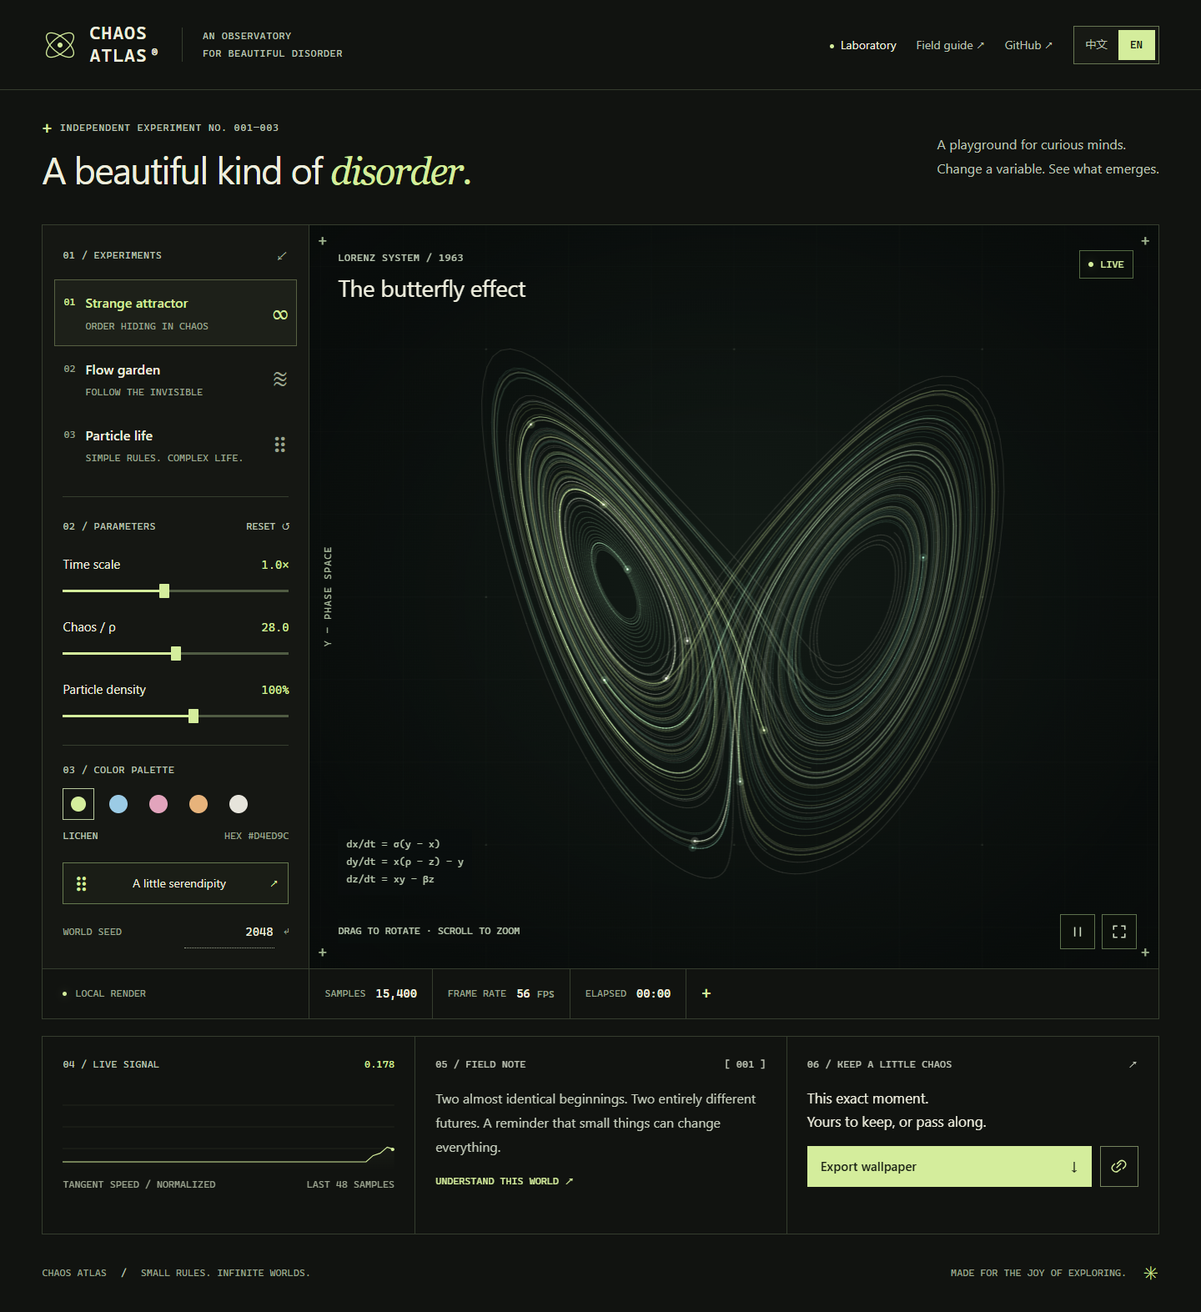
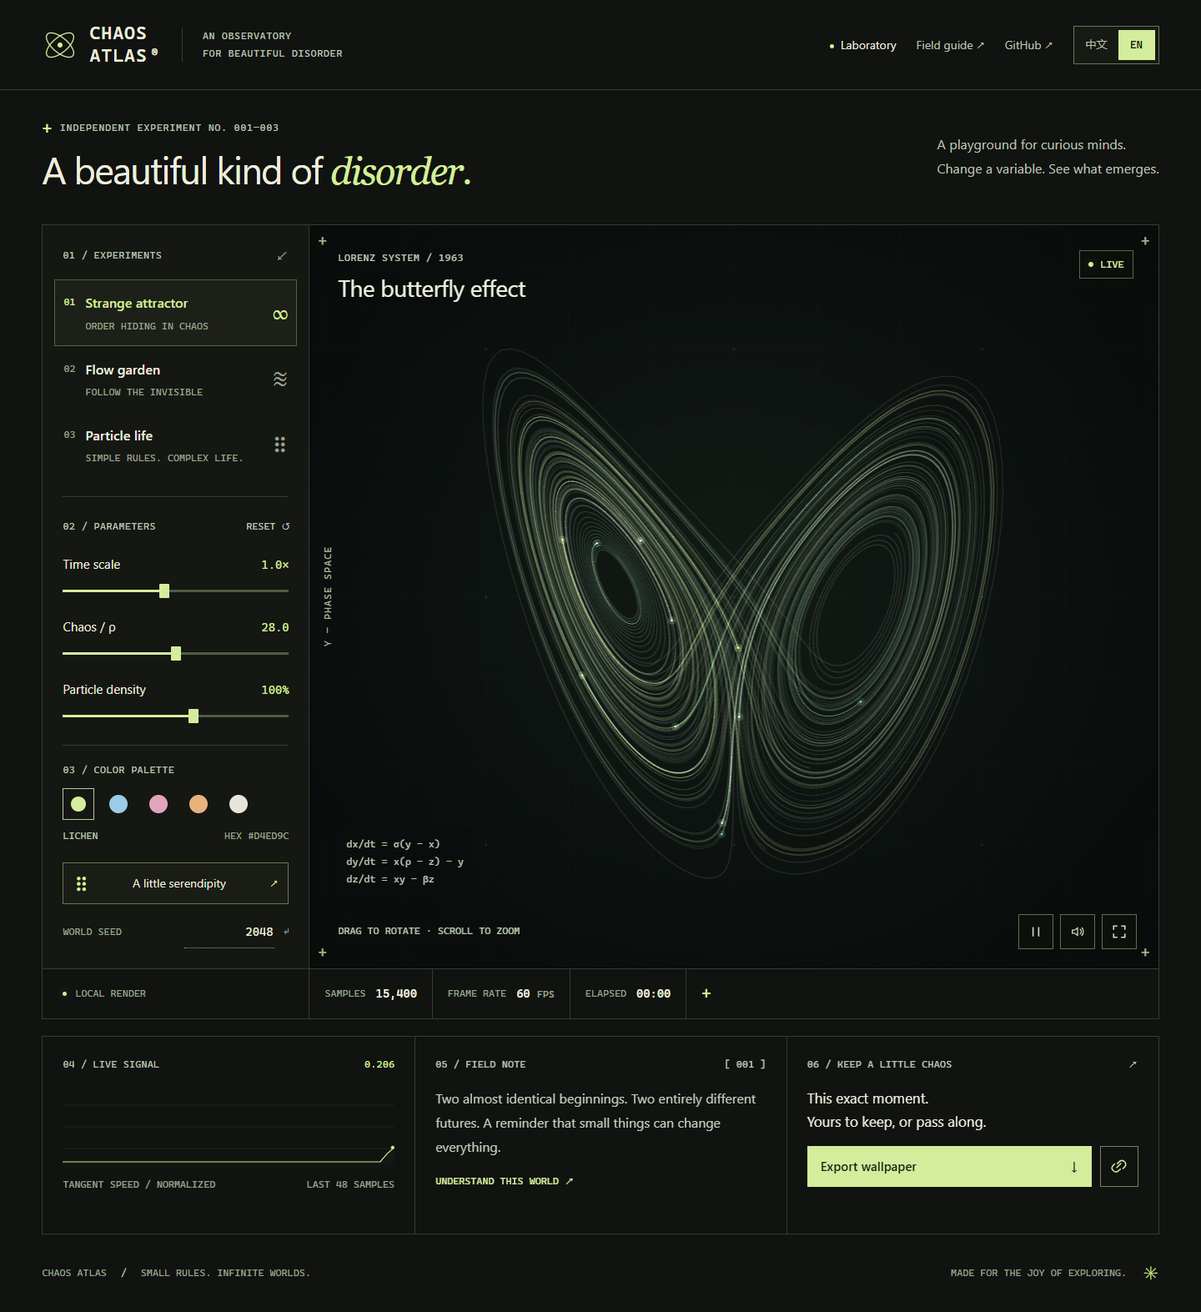
Add opt-in generative observatory melody

Changed region(s): [[0.4062, 0.3115, 0.5312, 0.5919], [0.7188, 0.3738, 0.8438, 0.5919]]

diff --git a/src/app.js b/src/app.js
@@ -1,4 +1,5 @@
 import { Simulation } from './simulation.js';
+import { ObservatorySound } from './sound.js';
 
 const $ = (selector) => document.querySelector(selector);
 const $$ = (selector) => [...document.querySelectorAll(selector)];
@@ -21,6 +22,9 @@ const translations = {
     simulationLabel: 'Interactive particle simulation', signalLabel: 'Rolling trace of average particle motion',
     homeLabel: 'Chaos Atlas home', githubLabel: 'Star Chaos Atlas on GitHub', closeDialog: 'Close dialog',
     axisY: 'Y — PHASE SPACE', axisX: 'X — INITIAL CONDITIONS', frameRate: 'FRAME RATE', lastSamples: 'LAST 48 SAMPLES',
+    soundTitle: 'OBSERVATORY SOUND', soundSubtitle: 'A small melody shaped by this world', volume: 'VOLUME',
+    volumeLabel: 'Sound volume', mute: 'MUTE', unmute: 'SOUND ON', soundEnable: 'Enable observatory sound',
+    soundDisable: 'Mute observatory sound', soundResume: 'Unmute observatory sound', soundUnavailable: 'Sound is not available in this browser.', soundEnabled: 'Sound enabled',
     navLab: 'Laboratory', navGuide: 'Field guide ↗', system: 'ALL SYSTEMS CURIOUS',
     introEyebrow: 'INDEPENDENT EXPERIMENT NO. 001—003', headline: 'A beautiful kind of <em>disorder.</em>',
     intro: 'A playground for curious minds.<br/>Change a variable. See what emerges.',
@@ -56,6 +60,9 @@ const translations = {
     simulationLabel: '可交互的粒子模拟', signalLabel: '平均粒子运动强度的实时曲线',
     homeLabel: '混沌图谱首页', githubLabel: '在 GitHub 收藏混沌图谱', closeDialog: '关闭弹窗',
     axisY: 'Y — 相空间', axisX: 'X — 初始条件', frameRate: '帧率', lastSamples: '最近 48 次采样',
+    soundTitle: '实验室声音', soundSubtitle: '由这个世界生成的一小段旋律', volume: '音量',
+    volumeLabel: '声音音量', mute: '静音', unmute: '开启声音', soundEnable: '开启实验室声音',
+    soundDisable: '关闭实验室声音', soundResume: '取消静音', soundUnavailable: '当前浏览器不支持声音。', soundEnabled: '声音已开启',
     navLab: '实验室', navGuide: '观测手册 ↗', system: '好奇心，运行中',
     introEyebrow: '独立实验 NO. 001—003', headline: '一种美丽的 <em>无序。</em>',
     intro: '给好奇心一片游乐场。<br/>改变一个变量，看看会发生什么。',
@@ -173,8 +180,20 @@ function updateStats(stats) {
   $('#elapsed-stat').textContent = `${String(Math.floor(seconds / 60)).padStart(2, '0')}:${String(seconds % 60).padStart(2, '0')}`;
   $('#activity-value').textContent = stats.activity.toFixed(3);
   lastTrace = stats.trace; drawSignal(lastTrace);
+  if (observatorySound) observatorySound.setStats(stats);
 }
+let observatorySound;
 const simulation = new Simulation($('#simulation'), { onStats: updateStats });
+observatorySound = new ObservatorySound({
+  onAvailability: (available) => {
+    if (!available) {
+      $('#sound-button').disabled = true;
+      $('#sound-button').title = t('soundUnavailable');
+      $('#sound-dock').hidden = true;
+      toast(t('soundUnavailable'));
+    }
+  },
+});
 
 function updateRange(id, value) {
   const input = $(`#${id}`); input.value = value;
@@ -199,6 +218,7 @@ function updateScene() {
   $('#signal-label').textContent = state.scene === 'lorenz' ? (state.language === 'zh' ? '轨迹切向速度 / 归一化' : 'TANGENT SPEED / NORMALIZED') : t('motionSignal');
   $('#simulation').setAttribute('aria-label', `${localized(info.title)}. ${localized(info.hint)}`);
   simulation.setScene(state.scene);
+  observatorySound.setScene(state.scene);
   updateParameters();
 }
 function updatePalette() {
@@ -249,6 +269,11 @@ function applyLanguage() {
   $$('.close-dialog').forEach((button) => { button.setAttribute('aria-label', t('closeDialog')); button.title = t('closeDialog'); });
   $('#immersive-button').setAttribute('aria-label', t(document.body.classList.contains('is-immersive') ? 'exitLabel' : 'immersiveLabel'));
   $('#immersive-button').title = `${t('immersiveLabel')} (F)`;
+  $('#sound-button').setAttribute('aria-label', t(observatorySound.enabled ? (observatorySound.muted ? 'soundResume' : 'soundDisable') : 'soundEnable'));
+  $('#sound-button').title = t(observatorySound.enabled ? (observatorySound.muted ? 'soundResume' : 'soundDisable') : 'soundEnable');
+  $('#sound-button').classList.toggle('sound-active', observatorySound.enabled && !observatorySound.muted);
+  $('#volume').setAttribute('aria-label', t('volumeLabel'));
+  $('#mute-button').textContent = observatorySound.enabled && !observatorySound.muted ? t('mute') : t('unmute');
   $('#share-button').setAttribute('aria-label', state.language === 'zh' ? '分享这个世界' : 'Share this world');
   $('#share-button').title = state.language === 'zh' ? '分享这个世界' : 'Share this world';
   const sizes = state.language === 'zh' ? ['桌面 — 2560 × 1440', '4K — 3840 × 2160', '手机 — 1440 × 2560', '方形 — 2048 × 2048'] : ['Desktop — 2560 × 1440', '4K — 3840 × 2160', 'Phone — 1440 × 2560', 'Square — 2048 × 2048'];
@@ -293,6 +318,19 @@ $('#exit-immersive').addEventListener('click', () => setImmersive(false));
 $('#guide-button').addEventListener('click', () => openDialog('#guide-dialog'));
 $('#read-note').addEventListener('click', () => openDialog('#guide-dialog'));
 $('#export-button').addEventListener('click', () => openDialog('#export-dialog'));
+$('#sound-button').addEventListener('click', async () => {
+  const enabled = await observatorySound.toggleMute();
+  if (!observatorySound.enabled) return;
+  $('#sound-dock').hidden = false;
+  $('#sound-button').classList.toggle('sound-active', enabled && !observatorySound.muted);
+  applyLanguage();
+  if (enabled && !observatorySound.muted) toast(t('soundEnabled'));
+});
+$('#mute-button').addEventListener('click', async () => {
+  await observatorySound.toggleMute();
+  applyLanguage();
+});
+$('#volume').addEventListener('input', (event) => observatorySound.setVolume(Number(event.target.value) / 100));
 $$('[data-language]').forEach((button) => button.addEventListener('click', () => {
   if (state.language === button.dataset.language) return;
   state.language = button.dataset.language; applyLanguage(); syncURL();
@@ -333,7 +371,11 @@ document.addEventListener('keydown', (event) => {
   else if (event.key === 'Escape') setImmersive(false);
 });
 window.addEventListener('resize', () => drawSignal(lastTrace));
-window.addEventListener('pagehide', (event) => { if (!event.persisted) simulation.destroy(); });
+document.addEventListener('visibilitychange', () => {
+  if (document.hidden) observatorySound.suspend();
+  else observatorySound.resume();
+});
+window.addEventListener('pagehide', (event) => { if (!event.persisted) { simulation.destroy(); observatorySound.destroy(); } });
 $('#seed').value = state.seed;
 applyLanguage(); simulation.setSeed(state.seed);
 if (location.search) syncURL();

diff --git a/src/sound.js b/src/sound.js
@@ -1,0 +1,177 @@
+const TAU = Math.PI * 2;
+
+const ROOTS = { lorenz: 146.83, flow: 196, life: 174.61 };
+const SCALES = {
+  lorenz: [0, 3, 7, 10, 14, 17, 21],
+  flow: [0, 2, 5, 7, 9, 12, 14],
+  life: [0, 3, 5, 7, 10, 12, 15],
+};
+
+const midiToFrequency = (root, semitones) => root * 2 ** (semitones / 12);
+
+/**
+ * Small, user-started Web Audio instrument for the observatory.
+ * It deliberately has no audio file or network dependency: notes are short,
+ * soft oscillators and a quiet drone, shaped by the live simulation activity.
+ */
+export class ObservatorySound {
+  constructor({ onAvailability } = {}) {
+    this.onAvailability = typeof onAvailability === 'function' ? onAvailability : () => {};
+    this.context = null;
+    this.master = null;
+    this.filter = null;
+    this.compressor = null;
+    this.timer = null;
+    this.drone = null;
+    this.scene = 'lorenz';
+    this.activity = 0.2;
+    this.elapsed = 0;
+    this.volume = 0.38;
+    this.enabled = false;
+    this.muted = false;
+    this.step = 0;
+    this._available = true;
+  }
+
+  get available() {
+    return this._available && Boolean(globalThis.AudioContext || globalThis.webkitAudioContext);
+  }
+
+  async enable() {
+    if (!this.available) {
+      this._available = false;
+      this.onAvailability(false);
+      return false;
+    }
+    try {
+      if (!this.context) this._createGraph();
+      await this.context.resume();
+      this.enabled = true;
+      this._startDrone();
+      this._scheduleNext(0.04);
+      this.onAvailability(true);
+      return true;
+    } catch (error) {
+      console.warn('Observatory sound unavailable:', error);
+      this._available = false;
+      this.onAvailability(false);
+      return false;
+    }
+  }
+
+  _createGraph() {
+    const AudioContextClass = globalThis.AudioContext || globalThis.webkitAudioContext;
+    this.context = new AudioContextClass();
+    this.master = this.context.createGain();
+    this.filter = this.context.createBiquadFilter();
+    this.compressor = this.context.createDynamicsCompressor();
+    this.master.gain.value = this.volume;
+    this.filter.type = 'lowpass';
+    this.filter.frequency.value = 2800;
+    this.filter.Q.value = 0.7;
+    this.compressor.threshold.value = -28;
+    this.compressor.knee.value = 18;
+    this.compressor.ratio.value = 5;
+    this.compressor.attack.value = 0.015;
+    this.compressor.release.value = 0.25;
+    this.master.connect(this.filter).connect(this.compressor).connect(this.context.destination);
+  }
+
+  _startDrone() {
+    if (this.drone || !this.context) return;
+    const now = this.context.currentTime;
+    const oscillator = this.context.createOscillator();
+    const gain = this.context.createGain();
+    oscillator.type = 'sine';
+    oscillator.frequency.value = ROOTS[this.scene] / 2;
+    gain.gain.setValueAtTime(0, now);
+    gain.gain.linearRampToValueAtTime(0.035, now + 1.8);
+    oscillator.connect(gain).connect(this.master);
+    oscillator.start(now);
+    this.drone = { oscillator, gain };
+  }
+
+  _scheduleNext(delay = 0.55) {
+    clearTimeout(this.timer);
+    if (!this.enabled || !this.context) return;
+    this.timer = setTimeout(() => {
+      this._playStep();
+      this._scheduleNext(0.42 + (1 - this.activity) * 0.34);
+    }, Math.max(40, delay * 1000));
+  }
+
+  _playStep() {
+    if (!this.enabled || this.muted || !this.context || this.context.state !== 'running') return;
+    const now = this.context.currentTime + 0.015;
+    const scale = SCALES[this.scene] || SCALES.lorenz;
+    const index = (this.step * 2 + Math.floor(this.elapsed * 3)) % scale.length;
+    const octave = this.scene === 'flow' ? 12 : (this.step % 5 === 0 ? 0 : 12);
+    const frequency = midiToFrequency(ROOTS[this.scene], scale[index] + octave);
+    const duration = 0.2 + this.activity * 0.16;
+    const oscillator = this.context.createOscillator();
+    const gain = this.context.createGain();
+    const voice = this.context.createBiquadFilter();
+    oscillator.type = this.scene === 'life' ? 'triangle' : 'sine';
+    oscillator.frequency.setValueAtTime(frequency, now);
+    oscillator.detune.setValueAtTime((this.activity - 0.5) * 18, now);
+    voice.type = 'lowpass';
+    voice.frequency.setValueAtTime(900 + this.activity * 2800, now);
+    voice.Q.value = 0.45;
+    gain.gain.setValueAtTime(0.0001, now);
+    gain.gain.exponentialRampToValueAtTime(0.055 + this.activity * 0.04, now + 0.025);
+    gain.gain.exponentialRampToValueAtTime(0.0001, now + duration);
+    oscillator.connect(voice).connect(gain).connect(this.master);
+    oscillator.start(now);
+    oscillator.stop(now + duration + 0.03);
+    this.step += 1;
+  }
+
+  setScene(scene) {
+    this.scene = scene;
+    if (this.drone && this.context) {
+      const now = this.context.currentTime;
+      this.drone.oscillator.frequency.setTargetAtTime(ROOTS[scene] / 2, now, 0.4);
+    }
+  }
+
+  setStats({ activity = 0, elapsed = 0 } = {}) {
+    this.activity = Math.max(0.05, Math.min(1, Number(activity) || 0));
+    this.elapsed = Number(elapsed) || 0;
+    if (this.filter && this.context) this.filter.frequency.setTargetAtTime(1800 + this.activity * 2600, this.context.currentTime, 0.15);
+  }
+
+  setVolume(value) {
+    this.volume = Math.max(0, Math.min(1, Number(value) || 0));
+    if (this.master && this.context) this.master.gain.setTargetAtTime(this.muted ? 0 : this.volume, this.context.currentTime, 0.04);
+  }
+
+  setMuted(value) {
+    this.muted = Boolean(value);
+    if (this.master && this.context) this.master.gain.setTargetAtTime(this.muted ? 0 : this.volume, this.context.currentTime, 0.04);
+  }
+
+  async toggleMute() {
+    if (!this.enabled) return this.enable();
+    this.setMuted(!this.muted);
+    return !this.muted;
+  }
+
+  suspend() {
+    if (this.context?.state === 'running') this.context.suspend();
+  }
+
+  resume() {
+    if (this.enabled && this.context?.state === 'suspended') this.context.resume();
+  }
+
+  destroy() {
+    clearTimeout(this.timer);
+    if (this.drone) {
+      try { this.drone.oscillator.stop(); } catch { /* Already stopped. */ }
+      this.drone = null;
+    }
+    if (this.context) this.context.close();
+    this.context = null;
+    this.enabled = false;
+  }
+}

diff --git a/index.html b/index.html
@@ -58,7 +58,7 @@
           <div class="axis-label axis-y" data-i18n="axisY">Y — PHASE SPACE</div><div class="axis-label axis-x" data-i18n="axisX">X — INITIAL CONDITIONS</div>
           <div class="canvas-cross cross-tl">+</div><div class="canvas-cross cross-tr">+</div><div class="canvas-cross cross-bl">+</div><div class="canvas-cross cross-br">+</div>
           <div class="viewport-equation" id="equation">dx/dt = σ(y − x)<br/>dy/dt = x(ρ − z) − y<br/>dz/dt = xy − βz</div>
-          <div class="viewport-bottom"><span class="interaction-hint" id="interaction-hint">DRAG TO ROTATE · SCROLL TO ZOOM</span><div class="canvas-tools"><button id="pause-button" title="Pause simulation (Space)" aria-label="Pause simulation"><svg viewBox="0 0 16 16" aria-hidden="true"><path d="M5 3v10M11 3v10"/></svg></button><button id="immersive-button" title="Immersive mode (F)" aria-label="Enter immersive mode"><svg viewBox="0 0 16 16" aria-hidden="true"><path d="M2 6V2h4m4 0h4v4M2 10v4h4m4 0h4v-4"/></svg></button></div></div>
+          <div class="viewport-bottom"><span class="interaction-hint" id="interaction-hint">DRAG TO ROTATE · SCROLL TO ZOOM</span><div class="canvas-tools"><button id="pause-button" title="Pause simulation (Space)" aria-label="Pause simulation"><svg viewBox="0 0 16 16" aria-hidden="true"><path d="M5 3v10M11 3v10"/></svg></button><button id="sound-button" title="Enable observatory sound" aria-label="Enable observatory sound"><svg viewBox="0 0 20 20" aria-hidden="true"><path d="M3 8v4h3l4 3V5L6 8H3Zm10-1.5a4 4 0 0 1 0 7M15.5 4.5a8 8 0 0 1 0 11"/></svg></button><button id="immersive-button" title="Immersive mode (F)" aria-label="Enter immersive mode"><svg viewBox="0 0 16 16" aria-hidden="true"><path d="M2 6V2h4m4 0h4v4M2 10v4h4m4 0h4v-4"/></svg></button></div></div>
           <button id="exit-immersive" class="exit-immersive" data-i18n="exitImmersive">EXIT IMMERSIVE ↙</button>
           <div class="paused-overlay" id="paused-overlay" hidden><span data-i18n="paused">TIME IS STANDING STILL</span><button id="resume-button" data-i18n="resume">Resume experiment →</button></div>
         </section>
@@ -75,6 +75,7 @@
 
     <footer><span>CHAOS ATLAS <span class="footer-divider">/</span> <span data-i18n="footer">SMALL RULES. INFINITE WORLDS.</span></span><span data-i18n="footerRight">MADE FOR THE JOY OF EXPLORING. <span class="footer-star">✳</span></span></footer>
     <div id="toast" class="toast" role="status" aria-live="polite"></div>
+    <div class="sound-dock" id="sound-dock" hidden><div><strong data-i18n="soundTitle">OBSERVATORY SOUND</strong><span data-i18n="soundSubtitle">A small melody shaped by this world</span></div><label class="volume-control" for="volume"><span data-i18n="volume">VOLUME</span><input id="volume" type="range" min="0" max="100" value="38" aria-label="Sound volume" data-i18n-aria-label="volumeLabel" /></label><button id="mute-button" type="button" data-i18n="mute">MUTE</button></div>
 
     <dialog id="guide-dialog" aria-labelledby="guide-heading"><div class="dialog-header"><span class="eyebrow" data-i18n="guideEyebrow">THE OBSERVER'S HANDBOOK</span><button class="close-dialog" aria-label="Close field guide">×</button></div><h2 id="guide-heading" data-i18n="guideTitle">A field guide to chaos.</h2><div id="guide-content"></div><div class="shortcut-list"><span><kbd>1</kbd><kbd>2</kbd><kbd>3</kbd> <span data-i18n="shortcutScenes">Switch worlds</span></span><span><kbd>Space</kbd> <span data-i18n="shortcutPause">Pause</span></span><span><kbd>R</kbd> <span data-i18n="shortcutRandom">Randomize</span></span><span><kbd>F</kbd> <span data-i18n="shortcutFocus">Immerse</span></span></div><p class="guide-disclaimer" data-i18n="guideDisclaimer">An artistic exploration of mathematical systems. These are numerical simulations, not scientific measurement instruments. All rendering stays on your device.</p></dialog>
     <dialog id="export-dialog" aria-labelledby="export-heading"><div class="dialog-header"><span class="eyebrow" data-i18n="exportEyebrow">A MOMENT, MADE TANGIBLE</span><button class="close-dialog" aria-label="Close export dialog">×</button></div><h2 id="export-heading" data-i18n="exportTitle">Take the chaos with you.</h2><p class="dialog-description" data-i18n="exportDescription">Your current world, rendered as a clean PNG. No interface, just the good stuff.</p><label class="export-label" for="export-size" data-i18n="canvasSize">CANVAS SIZE</label><select id="export-size"><option value="2560x1440">Desktop — 2560 × 1440</option><option value="3840x2160">4K — 3840 × 2160</option><option value="1440x2560">Phone — 1440 × 2560</option><option value="2048x2048">Square — 2048 × 2048</option></select><button class="primary-button download-button" id="download-button"><span data-i18n="download">Download PNG</span><span>↓</span></button><p class="export-note" data-i18n="exportNote">A fresh composition from the same seed and parameters. Flow trails are rebuilt for a crisp, high resolution image.</p></dialog>

diff --git a/src/styles.css b/src/styles.css
@@ -185,6 +185,17 @@ select, #share-url { width: 100%; min-width: 0; min-height: 48px; border: 1px so
 .download-button { width: 100%; margin-top: 16px; padding: 14px 17px; }
 .toast { position: fixed; bottom: 24px; left: 50%; transform: translate(-50%, 20px); opacity: 0; z-index: 300; pointer-events: none; border: 1px solid #819a5e; background: #1a2314; color: var(--accent); padding: 14px 20px; font: 14px/1.6 var(--mono); transition: opacity .2s, transform .2s; box-shadow: 0 6px 30px #0008; max-width: 90vw; width: max-content; text-align: center; }
 .toast.visible { opacity: 1; transform: translate(-50%, 0); }
+.canvas-tools button.sound-active { border-color: var(--accent); background: #d4ed9c18; }
+.sound-dock { position: fixed; right: 24px; bottom: 24px; z-index: 250; display: flex; align-items: center; gap: 20px; width: min(480px, calc(100vw - 32px)); padding: 16px 18px; border: 1px solid #718956; background: #161b13f2; box-shadow: 0 12px 45px #0009; backdrop-filter: blur(12px); }
+.sound-dock[hidden] { display: none; }
+.sound-dock > div:first-child { min-width: 0; flex: 1; }
+.sound-dock strong, .sound-dock span { display: block; }
+.sound-dock strong { font: 12px/1.5 var(--mono); color: var(--accent); letter-spacing: .4px; }
+.sound-dock > div:first-child span { margin-top: 4px; color: var(--muted); font-size: 13px; line-height: 1.5; }
+.volume-control { display: flex; align-items: center; gap: 10px; color: var(--dim); font: 11px/1.5 var(--mono); white-space: nowrap; }
+.volume-control input[type=range] { width: 90px; height: 24px; }
+.sound-dock > button { border: 1px solid #718956; color: var(--accent); min-height: 38px; padding: 6px 10px; font: 12px/1.5 var(--mono); }
+.sound-dock > button:hover { background: #d4ed9c15; }
 noscript { display: block; text-align: center; padding: 30px; color: var(--accent); }
 
 @media (max-width: 1450px) {
@@ -305,6 +316,10 @@ noscript { display: block; text-align: center; padding: 30px; color: var(--accen
   .shortcut-list { gap: 14px; }
   select, #share-url { font-size: 16px; padding: 10px; }
   .toast { bottom: 16px; padding: 12px 16px; font-size: 14px; }
+  .sound-dock { right: 12px; bottom: 12px; width: calc(100vw - 24px); flex-wrap: wrap; gap: 10px 14px; padding: 14px; }
+  .sound-dock > div:first-child { flex-basis: calc(100% - 12px); }
+  .volume-control { flex: 1; }
+  .volume-control input[type=range] { flex: 1; width: auto; min-width: 80px; }
 }
 @media (max-width: 370px) {
   .masthead { flex-wrap: wrap; gap: 14px; }

diff --git a/README.md b/README.md
@@ -35,6 +35,7 @@ These are visual experiments. The particle-life rules are a simplified artificia
 - Choose from five palettes—Lichen, Glacier, Rose, Ember, and Silver—or explore a new seed.
 - Share a URL containing the scene configuration and seed.
 - Export a PNG wallpaper, including a 4K option.
+- Turn on an optional generative observatory melody. It is synthesized locally with Web Audio, responds to the active scene, and never starts until you choose it.
 - Pause, restart, or enter a distraction-free view.
 - Use a responsive interface with keyboard-accessible controls and reduced-motion support.
 - Read comfortably with 16px body text, 14–16px controls, and labels of at least 12px. On phones, the canvas appears before the settings and text panels stack vertically.
@@ -56,6 +57,8 @@ Wallpaper export redraws the current scene geometry at the selected resolution r
 | `Esc` | Close a dialog or leave immersive mode |
 
 Use the visible **中文 / EN** options in the header to switch languages on desktop or mobile. The current choice is highlighted and saved for future visits. Language selection follows this order: a valid `lang=zh` or `lang=en` URL parameter → saved preference → browser language → English. Switching languages keeps the current experiment and parameters intact.
+
+Sound is intentionally opt-in. Click the speaker button inside the canvas, then adjust volume or mute it from the small sound dock. Browsers require a user gesture before Web Audio can start; browsers without Web Audio simply disable the control.
 
 Open directly in [中文](https://bidepanwin.github.io/chaos-atlas/?lang=zh) or [English](https://bidepanwin.github.io/chaos-atlas/?lang=en).
 

diff --git a/README.zh-CN.md b/README.zh-CN.md
@@ -35,6 +35,7 @@
 - 尝试 Lichen、Glacier、Rose、Ember、Silver 五种配色，改变随机种子，探索新的形态。
 - 把场景配置与种子写入链接，分享给别人。
 - 导出 PNG 壁纸，支持 4K 选项。
+- 开启可选的生成式实验室旋律。声音由浏览器本地 Web Audio 合成，会跟随当前场景变化，只有主动点击后才会开始。
 - 正文采用 16px、主要控件采用 14–16px，辅助标签不小于 12px；手机上优先展示画布，设置和文字面板纵向排列。
 - 暂停、重新开始，或者进入沉浸视图。
 - 使用适配手机的界面、键盘可操作控件和减少动态效果支持。
@@ -56,6 +57,8 @@
 | `Esc` | 关闭弹窗或退出沉浸模式 |
 
 通过页头显著的 **中文 / EN** 两个选项切换语言，桌面和手机均可使用。当前语言会高亮显示，并保存为下次访问的偏好。语言选择优先级为：有效的 `lang=zh` 或 `lang=en` URL 参数 → 已保存选择 → 浏览器语言 → 英语。切换语言会保留当前实验和参数。
+
+声音默认关闭。点击画布工具栏中的扬声器按钮后即可开启，再通过声音面板调节音量或静音。浏览器需要用户主动操作后才能启动 Web Audio；不支持 Web Audio 的浏览器会自动禁用声音按钮。
 
 也可以直接打开[中文版](https://bidepanwin.github.io/chaos-atlas/?lang=zh)或[英文版](https://bidepanwin.github.io/chaos-atlas/?lang=en)。
 
